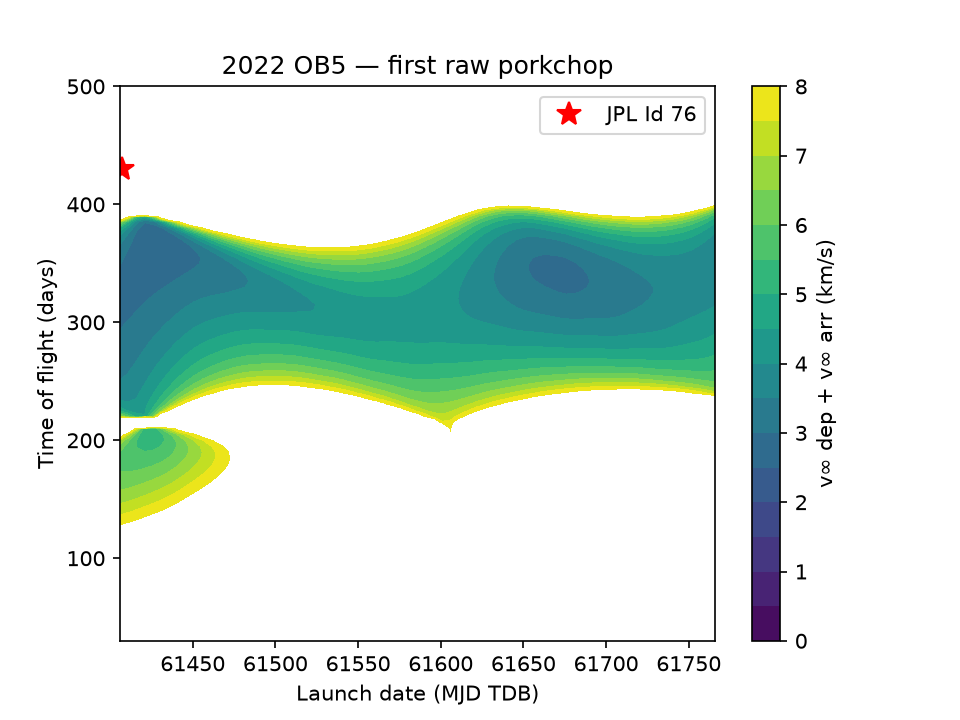
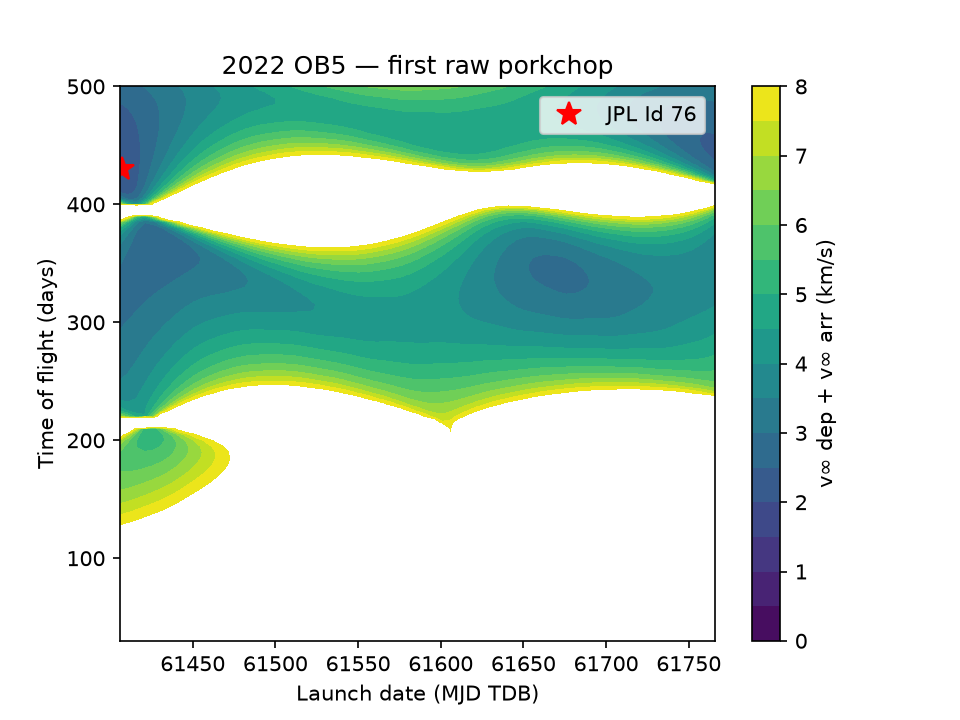
Extend Lambert to 1 revolution; sweep keeps cheaper of 0/1-rev; reproduce JPL Id 76 (2.07 vs. 2.1 km/s)

Changed region(s): [[0.125, 0.1222, 0.75, 0.3056]]

diff --git a/src/porkchop/lambert.py b/src/porkchop/lambert.py
@@ -17,67 +17,95 @@ Known edge cases to handle or flag (don't silently return garbage):
   * no convergence (very short TOF on a long-way transfer, etc.): return NaNs, don't crash a 50k-point sweep
 """
 import numpy as np
-from scipy.optimize import brentq
-
+from scipy.optimize import brentq, minimize_scalar
 from .twobody import stumpff_c, stumpff_s
 
+# ---------- shared helpers (Curtis Algorithm 5.2, split into pieces) ----------
 
-def solve(mu: float, r1: np.ndarray, r2: np.ndarray, tof: float, prograde: bool = True):
-    """Velocities at r1 and r2 for a conic from r1 to r2 in `tof` seconds.
-    Universal variables, Curtis Algorithm 5.2; root found with brentq.
-
-    Args:
-        mu: gravitational parameter, km^3/s^2
-        r1, r2: position vectors, km, shape (3,)
-        tof: time of flight, s (> 0)
-        prograde: True picks the transfer whose angular momentum has +z (same sense as the planets)
-
-    Returns:
-        (v1, v2): km/s, each shape (3,). NaN arrays if the solver fails to converge.
-    """
-    nan3 = np.full(3, np.nan)
-
-    # Step 1: magnitudes
+def _geometry(r1, r2, prograde):
+    """Steps 1-3: magnitudes, transfer angle (with the side picked by the cross product's z-component), and Curtis's constant A."""
     R1 = np.linalg.norm(r1)
     R2 = np.linalg.norm(r2)
-
-    # Step 2: transfer angle, with the side picked by the cross product's z-component
-    cos_dth = np.clip(np.dot(r1, r2) / (R1 * R2), -1.0, 1.0)    # clip guards against 1.0000000001
+    cos_dth = np.clip(np.dot(r1, r2) / (R1 * R2), -1.0, 1.0)        # clip guards against 1.0000000001
     cross_z = np.cross(r1, r2)[2]
+
     if prograde:
         dth = np.arccos(cos_dth) if cross_z >= 0 else 2*np.pi - np.arccos(cos_dth)
     else:
         dth = np.arccos(cos_dth) if cross_z < 0 else 2*np.pi - np.arccos(cos_dth)
+    A = np.sin(dth) * np.sqrt((R1*R2) / (1 - np.cos(dth)))
+    return R1, R2, A 
 
-    # Step 3: A, constant for this problem
-    A = np.sin(dth) * np.sqrt((R1*R2)/(1-np.cos(dth))) 
+def _y(z, R1, R2, A):
+    """Step 4: y(z)."""
+    return R1 + R2 + A * (z*stumpff_s(z) - 1) / np.sqrt(stumpff_c(z))
 
-    # Step 4: y(z)
-    def y(z):
-        return R1 + R2 + A * (z*stumpff_s(z) - 1) / np.sqrt(stumpff_c(z))
+def _tof_residual(z, R1, R2, A, mu, tof):
+    """Step 5: F(z), zero at the right orbit (when this z's orbit takes exactly 'tof' seconds)."""
+    yz = _y(z, R1, R2, A)
+    if yz < 0:
+        return np.inf               # y sits under a square root; treat this region as "infinitely long"    
+    return (yz/stumpff_c(z))**1.5 * stumpff_s(z) + A * np.sqrt(yz) - np.sqrt(mu) * tof
 
-    # Step 5: F(z), zero at the right orbit (comes from Curtis's time-of-flight equation)
-    def F(z):
-        yz = y(z)
-        return (yz/stumpff_c(z))**1.5 * stumpff_s(z) + A * np.sqrt(yz) - np.sqrt(mu) * tof
-
-    # Step 6: bracket and solve (zero-revolution: z must stay below 4*pi^2)
-    z_high = 4 * np.pi**2 - 1e-6
-    z_low = -4 * np.pi**2
-    while y(z_low) < 0 and z_low < z_high:              # y is under a square root, so it must be positive
-        z_low += 0.1
-    try:
-        z = brentq(F, z_low, z_high, xtol=1e-14, maxiter=500)
-    except ValueError:                                  # no sign change: no solution in this bracket
-        return nan3, nan3
-
-    # Step 7: Lagrange coefficients
-    yz = y(z)
-    f = 1-yz/R1
+def _velocities(z, r1, r2, R1, R2, A, mu):
+    """Steps 7-8: Lagrange coefficients, then the two velocity vectors."""
+    yz = _y(z, R1, R2, A)
+    f = 1 - yz/R1
     g = A * np.sqrt(yz/mu)
     gdot = 1 - yz/R2
-
-    # Step 8: velocities
-    v1 = (r2 - f*r1)/g 
+    v1 = (r2 - f*r1) / g
     v2 = (gdot*r2 - r1) / g
     return v1, v2
+
+# ---------- public solvers ----------
+
+def solve(mu: float, r1: np.ndarray, r2: np.ndarray, tof: float, prograde: bool = True):
+    """Velocities at r1 and r2 for a conic from r1 to r2 in `tof` seconds.
+        Universal variables, Curtis Algorithm 5.2; root found with brentq.
+    
+        Args:
+            mu: gravitational parameter, km^3/s^2
+            r1, r2: position vectors, km, shape (3,)
+            tof: time of flight, s (> 0)
+            prograde: True picks the transfer whose angular momentum has +z (same sense as the planets)
+    
+        Returns:
+            (v1, v2): km/s, each shape (3,). NaN arrays if the solver fails to converge.
+        """
+    nan3 = np.full(3, np.nan)
+    R1, R2, A = _geometry(r1, r2, prograde)
+    resid = lambda z: _tof_residual(z, R1, R2, A, mu, tof)
+
+    # Step 6 (zero-revolution): z between the y > 0 boundary and 4*pi^2
+    z_high = 4 * np.pi**2 - 1e-6
+    z_low = -4 * np.pi**2
+    while _y(z_low, R1, R2, A) < 0 and z_low < z_high:      # y is under a square root, so it must be positive
+        z_low += 0.1
+    try:
+        z = brentq(resid, z_low, z_high, xtol=1e-14, maxiter=500)
+    except ValueError:                                      # no sign change: no solution in this bracket
+        return nan3, nan3
+    return _velocities(z, r1, r2, R1, R2, A, mu)
+
+def solve_multirev(mu, r1, r2, tof, revs=1, prograde=True):
+    """All 'revs' -revolution solutions (0 or 2 of them), as a list of (v1, v2).
+    
+    z lives in ((2*pi*revs)^2, (2*pi*(revs+1))^2). TOF -> infinity at both ends with a minimum
+    between, so: find the minimum, then solve once on each side (Izzo's low / high path).
+    """
+
+    R1, R2, A = _geometry(r1, r2, prograde)
+    resid = lambda z: _tof_residual(z, R1, R2, A, mu, tof)  # one-line unnamed function that turns the 6-input residual into a 1-input function that minimize_scalar and brentq need (same trick as defining F(z) inside solve)
+
+    z_lo = (2*np.pi*revs)**2 + 1e-6
+    z_hi = (2*np.pi*(revs + 1))**2 - 1e-6
+    bottom = minimize_scalar(resid, bounds=(z_lo, z_hi), method="bounded")
+    z_min = bottom.x                          # where the minimum is (the z at the bottom of the U; already stored that as z_min)
+    if bottom.fun > 0:                        # Δt is shorter than the fastest 1-rev transfer; the fastest 1-rev transfer is still too slow → no solution
+        return []                             # bottom.fun: the function's value there ("fun" is short for function value)
+
+    solutions = []
+    for a, b in ((z_lo, z_min), (z_min, z_hi)):                 # left side, then right side of the U
+        z = brentq(resid, a, b, xtol=1e-14, maxiter=500)
+        solutions.append(_velocities(z, r1, r2, R1, R2, A, mu))
+    return solutions 

diff --git a/src/porkchop/sweep.py b/src/porkchop/sweep.py
@@ -41,7 +41,8 @@ def porkchop_grid(dep_mjd, tof_days, earth_state, target_state, mu: float = MU_S
         mu: central-body GM (Sun)
 
     Returns dict of arrays, all with leading shape (n, m):
-        'vinf_dep' (km/s), 'vinf_arr' (km/s), 'c3' (km^2/s^2), 'vinf_dep_vec' (n, m, 3), ecliptic frame
+        'vinf_dep' (km/s), 'vinf_arr' (km/s), 'c3' (km^2/s^2), 'vinf_dep_vec' (n, m, 3), ecliptic frame, 
+        'n_revs' (n, m): 0 or 1, which revolution count won
     """
     n, m = len(tof_days), len(dep_mjd)
 
@@ -49,15 +50,27 @@ def porkchop_grid(dep_mjd, tof_days, earth_state, target_state, mu: float = MU_S
     vinf_dep = np.full((n, m), np.nan)
     vinf_arr = np.full((n, m), np.nan)  # same shape
     vinf_dep_vec = np.full((n, m, 3), np.nan)   # a 3-vector at every grid point
+    n_revs = np.full((n, m), -1)                # which revolution count won at each point (-1 = none yet)
 
     for i, tof in enumerate(tof_days):                  # rows
         for j, dep in enumerate(dep_mjd):               # columns
             r1, v_earth = earth_state(dep)
             r2, v_target = target_state(dep + tof)                       # the asteroid's state at ARRIVAL
-            v1, v2 = lambert.solve(mu, r1, r2, tof * SECONDS_PER_DAY)    # TOF in SECONDS
-            vinf_dep_vec[i, j] = v1 - v_earth                            # spacecraft velocity minus Earth's
-            vinf_dep[i, j] = np.linalg.norm(vinf_dep_vec[i, j])          # its magnitude
-            vinf_arr[i, j] = np.linalg.norm(v2 - v_target)               # |v2 - v_target|
 
-    return {"vinf_dep": vinf_dep, "vinf_arr": vinf_arr,
-           "c3": vinf_dep**2, "vinf_dep_vec": vinf_dep_vec}
+            dt = tof * SECONDS_PER_DAY
+            candidates = [lambert.solve(mu, r1, r2, dt)] + lambert.solve_multirev(mu, r1, r2, dt, revs=1)
+            revs_of = [0] + [1] * (len(candidates) - 1)     # label each candidate with its rev count
+
+            best_total = np.inf
+            for (v1, v2), k in zip(candidates, revs_of):    # walks both lists side by side, so each pass gives you one solution and its label together
+                vd = v1 - v_earth                           # departure v-infinity vector
+                total = np.linalg.norm(vd) + np.linalg.norm(v2 - v_target)
+                if total < best_total:                      # NaN < anything is False, so failed solves are skipped
+                    best_total = total
+                    vinf_dep_vec[i, j] = vd
+                    vinf_dep[i, j] = np.linalg.norm(vd)
+                    vinf_arr[i, j] = np.linalg.norm(v2 - v_target)
+                    n_revs[i, j] = k
+
+    return {"vinf_dep": vinf_dep, "vinf_arr": vinf_arr, "c3": vinf_dep**2, 
+            "vinf_dep_vec": vinf_dep_vec, "n_revs": n_revs}

diff --git a/tests/test_lambert.py b/tests/test_lambert.py
@@ -53,3 +53,25 @@ def test_cross_check_against_lamberthub_heliocentric():
     v1_ref, v2_ref = lamberthub.izzo2015(mu_sun, r1, r2, tof)
     np.testing.assert_allclose(v1, v1_ref, rtol=1e-6)
     np.testing.assert_allclose(v2, v2_ref, rtol=1e-6)
+
+
+def test_one_rev_matches_izzo_both_paths():
+    lamberthub = pytest.importorskip("lamberthub")
+    mu_sun = 1.32712440041279419e11
+    au = 149597870.7
+    r1 = np.array([1.0 * au, 0.0, 0.0])
+    r2 = au * np.array([0.2, 1.0, 0.02])
+    tof = 430 * 86400.0
+    mine = lambert.solve_multirev(mu_sun, r1, r2, tof, revs=1)
+    assert len(mine) == 2
+    for low in (True, False):
+        v1_ref, v2_ref = lamberthub.izzo2015(mu_sun, r1, r2, tof, M=1, low_path=low)
+        assert any(np.allclose(v1, v1_ref, rtol=1e-6) and np.allclose(v2, v2_ref, rtol=1e-6)
+                   for v1, v2 in mine)
+
+
+def test_one_rev_too_short_returns_nothing():
+    au = 149597870.7
+    r1 = np.array([1.0 * au, 0.0, 0.0])
+    r2 = au * np.array([0.2, 1.0, 0.02])
+    assert lambert.solve_multirev(1.32712440041279419e11, r1, r2, 150 * 86400.0, revs=1) == []

diff --git a/first_porkchop.py b/first_porkchop.py
@@ -33,3 +33,14 @@ for low in (True, False):                   # a 1-rev transfer has two solutions
     print(f"Izzo1-rev (low_path={low}):", np.linalg.norm(v1 - ve), np.linalg.norm(v2 - vt))
 
 print("NaN grid points:", np.isnan(total).sum(), "of", total.size)
+
+i = np.where(tof == 430) [0][0]             # row for TOF = 430 days; finds which row holds 430 days
+j = np.where(dep == 61406)[0][0]            # column for 2027-01-01 (nearest grid date to JPL's 01-02)
+print("At JPL Id 76:", total[i, j], "km/s, revs =", grid["n_revs"][i, j])
+
+# Finds the smallest value while ignoring NaNs, but it reports the position as if the grid were one long list.
+# np.unravel_index converts that back to (row, column); useful whenever you need "where is the minimum" on a 2D grid
+k = np.unravel_index(np.nanargmin(total), total.shape)
+print("Grid minimum:", total[k], "km/s at launch MJD", dep[k[1]],
+      "TOF", tof[k[0]], "d, revs =", grid["n_revs"][k])
+print("C3:", grid["c3"][i, j], "v_inf dep/arr:", grid["vinf_dep"][i, j], grid["vinf_arr"][i, j])

diff --git a/BUILD_LOG.md b/BUILD_LOG.md
@@ -163,4 +163,51 @@ Dated entries.
 
 ---
 
-## #5 · YYYY-MM-DD · Week 1 wrap (planned after Day 6–7)
+## #5 · 2026-11-18 · One-revolution Lambert: reproduced JPL's best mission
+
+**Did:**
+- [x] **Refactored `lambert.py`** into shared helpers (`_geometry`, `_y`, `_tof_residual`, `_velocities`). All 5 existing tests still pass, so nothing broke.
+- [x] **`solve_multirev`**: one-revolution Lambert from the same Curtis equations; z ∈ (4π², 16π²)
+- [x] **7/7 Lambert tests pass**: the new 1-rev test matches Izzo's low *and* high path; a too-short TOF correctly returns no solutions
+- [x] **Sweep keeps the cheaper of 0-rev and 1-rev** at every grid point; new `n_revs` grid records which won
+- [x] Porkchop now matches JPL's full structure, including the one-rev region above ~420 days
+
+**Result: reproduced JPL's best 2027 mission to 2022 OB5**
+
+| Launch 2027-01-01, TOF 430 d | Mine | JPL | |
+|---|---|---|---|
+| C3 | **1.6509** km²/s² | 1.65 | 0.05% |
+| v∞ dep / arr | 1.285 / 0.782 km/s | 1.3 / 0.8 | ✓ (JPL rounds to 0.1) |
+| v∞ dep + arr | 2.067 km/s | 2.1 | ✓ |
+| Revolutions | 1 | – | |
+| Grid minimum (6,935 points) | this same point | JPL's precomputed best (Id 76) | ✓ |
+
+**How one revolution works:**
+- Zero-rev: z < 4π², flight time rises steadily with z → **one** solution.
+- One-rev: z ∈ (4π², 16π²), flight time → ∞ at both ends with a **minimum** between → a U-shaped curve.
+  - Δt above the bottom of the U → **two** solutions (left side = Izzo's low path, right side = high path)
+  - Δt below it → **none**. In my test geometry the bottom was ~391 days, which is why the missing region started at ~400 days.
+
+**Surprised me:**
+- The same Curtis equations handle one revolution; only the z range and the bracketing change. Izzo's "low / high path" are just the two sides of the U.
+- A refactor felt risky until I realized the existing tests answer "did I break anything?" in 5 seconds.
+
+**Python lessons:**
+- **Refactor under tests:** move code into helpers, rerun the old tests *before* adding anything new.
+- Helpers outside a function can't see its variables; they need them as explicit inputs.
+- `lambda z: ...` turns a many-input function into the one-input form `brentq` and `minimize_scalar` need.
+- `minimize_scalar` returns an object: `.x` = *where* the minimum is, `.fun` = the value there.
+- Imports again: `minimize_scalar` undefined until added to the `from scipy.optimize import ...` line.
+- "Replace" means delete the old lines. Leftover old code *after* new code silently overwrote the 1-rev results.
+- `vinf_dep_vec` holds a vector, `vinf_dep` its magnitude. Don't store one where the other belongs.
+- `zip(a, b)` walks two lists side by side; a running minimum starts at `np.inf`; `NaN < x` is always False, so failed solves skip themselves.
+- `np.unravel_index(np.nanargmin(grid), grid.shape)` → (row, col) of a 2-D minimum.
+
+**Notes:**
+"My porkchop reproduces JPL's best 2027 mission to 2022 OB5, C3 1.651 vs their 1.65. Getting there meant extending my Lambert solver to one-revolution transfers after I found JPL's optimum was a 1-rev trajectory my zero-rev solver couldn't see."
+
+**Next:** Day 5, the parking-orbit layer: departure ΔV from LEO / SSO / GEO and the declination reachability check (`departure.py` stubs + tests are ready). Then the full JPL grid comparison (Figure F3). Ship ≈ Dec 7.
+
+---
+
+## #6 · YYYY-MM-DD · Week 1 wrap (planned after Day 6–7)
